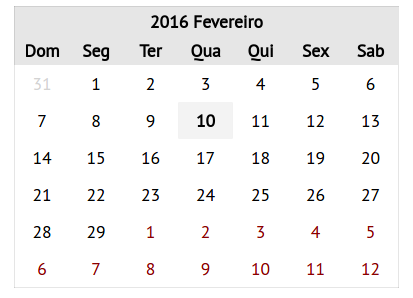
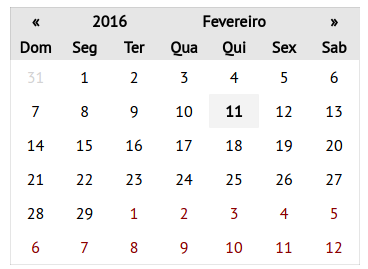
Added embedded buttons to the calendar. Docs up-to-date.

diff --git a/monthCalendarGen.min.js b/monthCalendarGen.min.js
@@ -1,1 +1,1 @@
-var monthCalendarGen=function(e,t){var d,a=/^[0-9]{1,2}$/,n=/^[0-9]{4}$/;d=void 0!==e&&void 0!==t&&n.test(e)&&a.test(t)?new Date(e,t):new Date;var r=new Date,l=new Date(r.getFullYear(),r.getMonth(),r.getDate()),s=d.getMonth(),o=d.getFullYear(),i=new Date(d.getFullYear(),d.getMonth(),1),c=new Date(d.getFullYear(),d.getMonth()+1,0),v=new Date(d.getFullYear(),d.getMonth(),1-i.getDay()),h=new Date(d.getFullYear(),d.getMonth()+1,13-c.getDay()),u=function(){for(var e=[],t=6,a=0;t>a;a++){for(var n=[],d=new Date(v.getFullYear(),v.getMonth(),v.getDate()+7*a),r=0;7>r;r++){var l=new Date(d.getFullYear(),d.getMonth(),d.getDate()+r);n.push(l)}e.push(n)}return e},m=function(e,t){t(e)},p=function(e,t){void 0===t&&(t={});var a={months:t.months||["January","February","March","April","May","June","July","August","September","October","November","December"],weekDays:t.weekDays||["Sun","Mon","Tue","Wed","Thu","Fri","Sat"],sendDateTo:t.sendDateTo,table:t.table||!1},n=u(d),r=document.createElement(a.table?"table":"div");r.classList.add("month");var i=document.createElement(a.table?"thead":"div");i.classList.add("month-head");var c=document.createElement(a.table?"tbody":"div");if(c.classList.add("month-body"),a.table){var v=document.createElement(a.table?"tr":"div");v.classList.add("month-head-line"),i.appendChild(v)}var h=document.createElement(a.table?"th":"div");h.classList.add("month-title"),a.table&&(h.colSpan="7");var p=document.createTextNode(o+" "+a.months[s]);h.appendChild(p),a.table?v.appendChild(h):i.appendChild(h);var D=document.createElement(a.table?"tr":"div");D.classList.add("weekdays"),i.appendChild(D);for(var g=0;g<a.weekDays.length;g++){var f=document.createElement(a.table?"th":"div");f.classList.add("weekday");var y=document.createTextNode(a.weekDays[g]);f.appendChild(y),D.appendChild(f)}r.appendChild(i),r.appendChild(c),e.appendChild(r);for(var b=0;b<n.length;b++){v=document.createElement(a.table?"tr":"div"),v.classList.add("week");for(var w=0;w<n[b].length;w++){var C=document.createElement(a.table?"td":"div");n[b][w].getMonth()<s?C.classList.add("last-month"):n[b][w].getMonth()>s?C.classList.add("next-month"):Date.parse(n[b][w])==Date.parse(l)&&C.classList.add("today"),C.classList.add("day");var M=document.createTextNode(n[b][w].getDate());C.dataset.date=Date.parse(n[b][w]),a.sendDateTo&&(C.onclick=function(){for(var e=document.getElementsByClassName("active-day"),t=0;t<e.length;t++)e[t].classList.remove("active-day");this.classList.add("active-day"),m(this.dataset.date,a.sendDateTo)}),C.appendChild(M),v.appendChild(C)}c.appendChild(v)}};return{month:s,year:o,today:l,now:r,firstMonthDay:i,lastMonthDay:c,firstCalendarDay:v,lastCalendarDay:h,run:function(){return u()},constructSheet:function(e,t){p(e,t)}}};
+var monthCalendarGen=function(e,t){var d,a=/^-?[0-9]{1,2}$/,n=/^-?[0-9]{4}$/;d=void 0!==e&&void 0!==t&&n.test(e)&&a.test(t)?new Date(e,t):new Date;var r=new Date,l=new Date(r.getFullYear(),r.getMonth(),r.getDate()),s=d.getMonth(),o=d.getFullYear(),c=new Date(d.getFullYear(),d.getMonth(),1),i=new Date(d.getFullYear(),d.getMonth()+1,0),h=new Date(d.getFullYear(),d.getMonth(),1-c.getDay()),u=new Date(d.getFullYear(),d.getMonth()+1,13-i.getDay()),v=function(){for(var e=[],t=6,a=0;t>a;a++){for(var n=[],d=new Date(h.getFullYear(),h.getMonth(),h.getDate()+7*a),r=0;7>r;r++){var l=new Date(d.getFullYear(),d.getMonth(),d.getDate()+r);n.push(l)}e.push(n)}return e},m=function(e,t){t(e)},p=function(e,t){void 0===t&&(t={});var a={months:t.months||["January","February","March","April","May","June","July","August","September","October","November","December"],weekDays:t.weekDays||["Sun","Mon","Tue","Wed","Thu","Fri","Sat"],sendDateTo:t.sendDateTo,table:t.table||!1,hasButtons:t.hasButtons||!1,butBackChar:t.butBackChar||"«",butNextChar:t.butNextChar||"»"},n=function(a){e.innerHTML="",monthCalendarGen(o,s+a).constructSheet(e,t)},r=v(d),c=document.createElement(a.table?"table":"div");c.classList.add("month");var i=document.createElement(a.table?"thead":"div");i.classList.add("month-head");var h=document.createElement(a.table?"tbody":"div");h.classList.add("month-body");var u=document.createElement(a.table?"tr":"div");u.classList.add("month-head-line"),i.appendChild(u);var p=document.createElement(a.table?"th":"div");p.classList.add("button-before"),p.colSpan="1",a.hasButtons&&(p.appendChild(document.createTextNode(a.butBackChar)),p.onclick=function(){n(-1)});var f=document.createElement(a.table?"th":"div");f.classList.add("year-title"),f.colSpan="2";var D=document.createTextNode(o);f.appendChild(D);var b=document.createElement(a.table?"th":"div");b.colSpan="3",b.classList.add("month-title");var g=document.createTextNode(a.months[s]);b.appendChild(g);var C=document.createElement(a.table?"th":"div");C.classList.add("button-next"),C.colSpan="1",a.hasButtons&&(C.appendChild(document.createTextNode(a.butNextChar)),C.onclick=function(){n(1)}),u.appendChild(p),u.appendChild(f),u.appendChild(b),u.appendChild(C);var y=document.createElement(a.table?"tr":"div");y.classList.add("weekdays"),i.appendChild(y);for(var w=0;w<a.weekDays.length;w++){var L=document.createElement(a.table?"th":"div");L.classList.add("weekday");var M=document.createTextNode(a.weekDays[w]);L.appendChild(M),y.appendChild(L)}c.appendChild(i),c.appendChild(h),e.appendChild(c);for(var E=0;E<r.length;E++){u=document.createElement(a.table?"tr":"div"),u.classList.add("week");for(var T=0;T<r[E].length;T++){var k=document.createElement(a.table?"td":"div");r[E][T].getMonth()<s?k.classList.add("last-month"):r[E][T].getMonth()>s?k.classList.add("next-month"):Date.parse(r[E][T])==Date.parse(l)&&k.classList.add("today"),k.classList.add("day");var x=document.createTextNode(r[E][T].getDate());k.dataset.date=Date.parse(r[E][T]),a.sendDateTo&&(k.onclick=function(){for(var e=document.getElementsByClassName("active-day"),t=0;t<e.length;t++)e[t].classList.remove("active-day");this.classList.add("active-day"),m(this.dataset.date,a.sendDateTo)}),k.appendChild(x),u.appendChild(k)}h.appendChild(u)}};return{month:s,year:o,today:l,now:r,firstMonthDay:c,lastMonthDay:i,firstCalendarDay:h,lastCalendarDay:u,run:function(){return v()},constructSheet:function(e,t){p(e,t)}}};

diff --git a/monthCalendarGen.js b/monthCalendarGen.js
@@ -2,8 +2,9 @@
 
 var monthCalendarGen = function (yyyy, mm) {
 
-  var regexMonth = /^[0-9]{1,2}$/;
-  var regexYear = /^[0-9]{4}$/;
+  var regexMonth = /^-?[0-9]{1,2}$/;
+  var regexYear = /^-?[0-9]{4}$/;
+
 
   var d;
 
@@ -12,7 +13,7 @@ var monthCalendarGen = function (yyyy, mm) {
   } else {
     d = new Date(yyyy, mm);
   }
-  
+
   var now = new Date();
   var today = new Date(now.getFullYear(), now.getMonth(), now.getDate());
   var month = d.getMonth();
@@ -47,9 +48,17 @@ var monthCalendarGen = function (yyyy, mm) {
 
     var config = {
       months: configObj.months || ["January", "February", "March", "April", "May", "June", "July", "August", "September", "October", "November", "December"],
-      weekDays: configObj.weekDays || ["Sun","Mon","Tue","Wed","Thu","Fri","Sat"],
+      weekDays: configObj.weekDays || ["Sun", "Mon", "Tue", "Wed", "Thu", "Fri", "Sat"],
       sendDateTo: configObj.sendDateTo,
       table: configObj.table || false,
+      hasButtons: configObj.hasButtons || false,
+      butBackChar: configObj.butBackChar || "«",
+      butNextChar: configObj.butNextChar || "»"
+    };
+
+    var changeSheet = function (n) {
+      containerEl.innerHTML = "";
+      monthCalendarGen(year, month + n).constructSheet(containerEl, configObj);
     };
 
     var array = weekGenerator(d);
@@ -60,36 +69,59 @@ var monthCalendarGen = function (yyyy, mm) {
     thead.classList.add("month-head");
     var tbody = document.createElement(config.table ? 'tbody' : 'div');
     tbody.classList.add("month-body");
-    if (config.table) {
-      var tr = document.createElement(config.table ? 'tr' : 'div');
-      tr.classList.add("month-head-line");
-      thead.appendChild(tr);
+    var tr = document.createElement(config.table ? 'tr' : 'div');
+    tr.classList.add("month-head-line");
+    thead.appendChild(tr);
+    var th0 = document.createElement(config.table ? 'th' : 'div');
+    th0.classList.add("button-before");
+    th0.colSpan = "1";
+
+    if (config.hasButtons) {
+      th0.appendChild(document.createTextNode(config.butBackChar));
+      th0.onclick = function () {
+        changeSheet(-1);
+      };
     }
+
     var th = document.createElement(config.table ? 'th' : 'div');
-    th.classList.add("month-title");
-    if (config.table) {
-      th.colSpan = "7";
-    }
-    var thText = document.createTextNode(year + " " + config.months[month]);
+    th.classList.add("year-title");
+    th.colSpan = "2";
+    var thText = document.createTextNode(year);
     th.appendChild(thText);
-    if (config.table) {
-      tr.appendChild(th);
-    } else {
-      thead.appendChild(th);
+
+    var th2 = document.createElement(config.table ? 'th' : 'div');
+    th2.colSpan = "3";
+    th2.classList.add("month-title");
+    var thText2 = document.createTextNode(config.months[month]);
+    th2.appendChild(thText2);
+    var th3 = document.createElement(config.table ? 'th' : 'div');
+    th3.classList.add("button-next");
+    th3.colSpan = "1";
+
+    if (config.hasButtons) {
+      th3.appendChild(document.createTextNode(config.butNextChar));
+      th3.onclick = function () {
+        changeSheet(1);
+      };
     }
-    
+
+    tr.appendChild(th0);
+    tr.appendChild(th);
+    tr.appendChild(th2);
+    tr.appendChild(th3);
+
     var wDays = document.createElement(config.table ? 'tr' : 'div');
     wDays.classList.add("weekdays");
     thead.appendChild(wDays);
-    for (var h=0; h<config.weekDays.length; h++){
+    for (var h = 0; h < config.weekDays.length; h++) {
       var wDay = document.createElement(config.table ? 'th' : 'div');
       wDay.classList.add("weekday");
       var wDayTxt = document.createTextNode(config.weekDays[h]);
       wDay.appendChild(wDayTxt);
       wDays.appendChild(wDay);
     }
-    
-    
+
+
     table.appendChild(thead);
     table.appendChild(tbody);
     containerEl.appendChild(table);
@@ -103,7 +135,7 @@ var monthCalendarGen = function (yyyy, mm) {
           td.classList.add("last-month");
         } else if (array[i][j].getMonth() > month) {
           td.classList.add("next-month");
-        } else if(Date.parse(array[i][j]) == Date.parse(today)){
+        } else if (Date.parse(array[i][j]) == Date.parse(today)) {
           td.classList.add("today");
         }
         td.classList.add("day");
@@ -112,7 +144,7 @@ var monthCalendarGen = function (yyyy, mm) {
         if (config.sendDateTo) {
           td.onclick = function () {
             var activeDay = document.getElementsByClassName("active-day");
-            for (var i=0; i<activeDay.length; i++){
+            for (var i = 0; i < activeDay.length; i++) {
               activeDay[i].classList.remove("active-day");
             }
             this.classList.add("active-day");
@@ -128,7 +160,7 @@ var monthCalendarGen = function (yyyy, mm) {
 
   return {
     month: month,
-    year : year,
+    year: year,
     today: today,
     now: now,
     firstMonthDay: firstMonthDay,

diff --git a/index.js b/index.js
@@ -8,7 +8,8 @@ var config = {
   sendDateTo: function (date) {
     console.log(date); //example
   },
-  table: true // default is false.
+  table: true, // default is false
+  hasButtons: true,
 };
 
 monthCalendarGen().constructSheet(body, config);

diff --git a/README.md b/README.md
@@ -3,7 +3,18 @@
 ```javascript
 var calendar = document.getElementById("calendar"); //the outer element.
 
-monthCalendarGen().constructSheet(calendar); // build the calendar inside of that element.
+var config = {
+  months: ["Janeiro", "Fevereiro", "Março", "Abril", "Maio", "Junho", "Julho", "Agosto", "Setembro", "Outubro", "Novembro", "Dezembro"],
+  weekDays: ["Dom", "Seg", "Ter", "Qua", "Qui", "Sex", "Sab"],
+  sendDateTo: function(date){
+    var output = document.getElementById("output");
+    output.innerHTML = new Date(parseInt(date));
+  },
+  table: true,
+  hasButtons: true
+}
+
+monthCalendarGen().constructSheet(calendar, config); // build the current month calendar inside of that element.
 ```
 
 ![monthCalendar Example Image](https://raw.githubusercontent.com/matepaiva/month-calendar-generator/master/calendar.png)
@@ -138,7 +149,7 @@ monthCalendarGen(2016, 1).constructSheet(calendar);
   <script src="index.js"></script>
 </body>
 ```
-Isn't it beautiful?
+Isn't it beautiful? ♥
 
 If you want it to display as table, you just have to pass an extra argument into an config object:
 
@@ -233,7 +244,7 @@ And then, when you reload your html, it will be like this:
 That's it. Now the details:
 
 ##The config object
-Untill now, there are 3 values you can set in your config object:
+There are some values you can set in your config object:
 
 ```javascript
   var config = {
@@ -248,7 +259,15 @@ Untill now, there are 3 values you can set in your config object:
       console.log(date); //example
     }, 
     
-    table: true // default is false.
+    table: true, // default is false.
+    
+    hasButtons: true, //default is false.
+    
+    butBackChar: "<", // default is "«",
+    
+    butNextChar: ">" // default is "»"
+};
+    
   };
 ```
 
@@ -259,7 +278,10 @@ As you could see, there are some built-in classes inside the Month Calendar Gene
 .month
   .month-head
     .month-head-line
+      .button-before
+      .year-title
       .month-title
+      .button-next
     .weekdays
       .weekday
   .month-body
